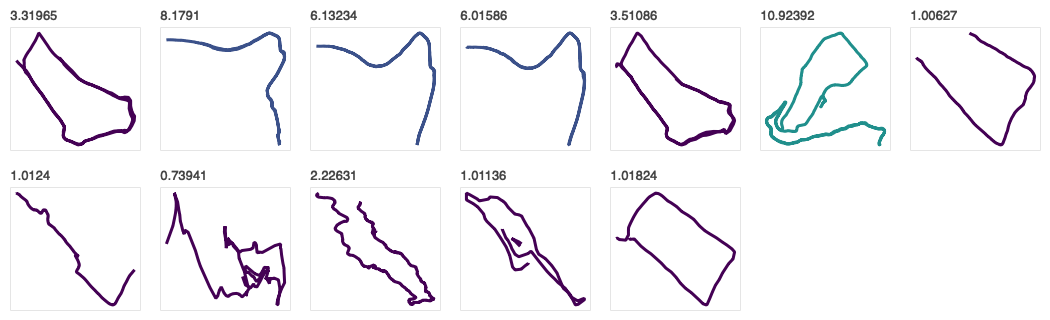
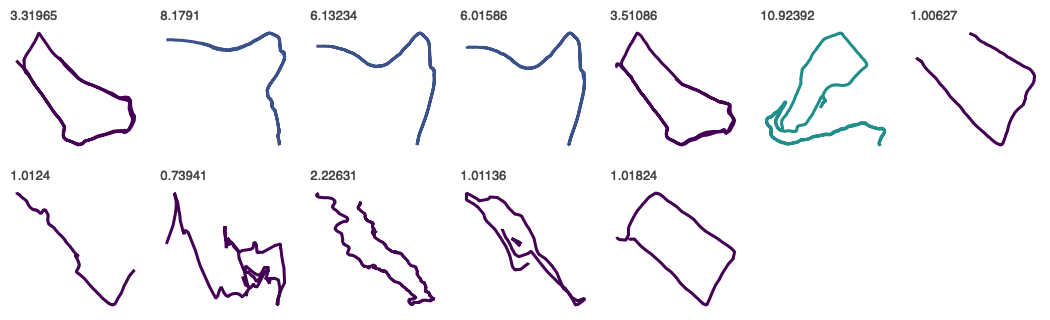
add single track

Changed region(s): [[0.1524, 0.5625, 0.1829, 0.5938], [0.1524, 0.0625, 0.1829, 0.0938]]

diff --git a/main.py b/main.py
@@ -8,14 +8,14 @@ import matplotlib.pyplot as plt
 import pandas as pd
 from bokeh.embed import components
 from bokeh.io import export_png, export_svgs
-from bokeh.layouts import gridplot
+from bokeh.layouts import gridplot, column
 from bokeh.models import ColumnDataSource
 from bokeh.palettes import all_palettes
-from bokeh.plotting import figure, output_file, show
+from bokeh.plotting import figure, output_file, show, save
 from fitparse import FitFile
 
 palettes = all_palettes['Viridis'][5]
-COLORS = {'text': '#222222', 'bg': '#FFFFFF', 'special': '#FFFF00',
+COLORS = {'text': '#222222', 'bg': '#FFFFFF', 'special': '#FFD700',
           '42k': palettes[4], '21k': palettes[3], '10k': palettes[2], '4k': palettes[1], '1k': palettes[0]}
 NCOLS = 7
 SIZE = 150
@@ -37,12 +37,12 @@ def get_color(distance):
 
 def fig(fn):
     fitfile = FitFile(fn)
-    total = []
+    table = []
     for record in fitfile.get_messages('record'):
         values = record.get_values()
-        total.append(values)
+        table.append(values)
 
-    df = pd.DataFrame(total)
+    df = pd.DataFrame(table)
 
     try:
         df['lat'] = df.position_lat.map(lambda x: x * 180 / (2 << 30))
@@ -56,33 +56,41 @@ def fig(fn):
     # msg = f"{df.iloc[-1]['timestamp']}  {df.iloc[-1]['distance']}"
     distance = df.iloc[-1]['distance'] / 1000
     color = get_color(distance)
-
-    # print(df.long)
-    # df.plot(kind='line', x='long', y='lat', c='distance', colormap='viridis')
-    # plt.scatter(df['long'], df['lat'], c=df['distance'], s=1)
-    # plt.plot(df['long'], df['lat'], c='c')
-    # plt.show()
-
+    timestamp = df.iloc[-1]['timestamp']
     source = ColumnDataSource(df)
-    p = figure(plot_width=SIZE, plot_height=SIZE+10,
-               toolbar_location=None, tools="", title=str(distance))
-    # p.circle(df['long'], df['lat'], size=1)
-    # p.circle("long", "lat", size=5, source=source)
-    p.line('long', 'lat', color=color, line_width=3, source=source)
 
-    # p.background_fill_color = COLORS['bg']
-    p.outline_line_color = COLORS['bg']
-    p.min_border_left = BORDER
-    p.min_border_right = BORDER
-    p.min_border_top = BORDER
-    p.min_border_bottom = BORDER
-    p.grid.grid_line_color = None
-    p.axis.visible = False
-
-    export_png(p, filename=f'dup/img/{fn[4:-4]}.png')
+    track = figure(plot_width=SIZE, plot_height=SIZE+10,
+                   toolbar_location=None, tools="", title=str(distance))
+    track.line('long', 'lat', color=color, line_width=3, source=source)
+    track.outline_line_color = COLORS['bg']
+    track.min_border_left = BORDER
+    track.min_border_right = BORDER
+    track.min_border_top = BORDER
+    track.min_border_bottom = BORDER
+    track.grid.grid_line_color = None
+    track.axis.visible = False
+    export_png(track, filename=f'dup/img/{fn[4:-4]}.png')
     # p.output_backend = "svg"
     # export_svgs(p, filename=f'dup/img/{fn[4:-4]}.svg')
-    return p, distance
+
+    single = figure(plot_width=SIZE*4, plot_height=SIZE*4+10, title=str(distance),
+                    toolbar_location=None, tools="")
+    single.line('long', 'lat', color=color, line_width=3, source=source)
+    hr = figure(plot_width=SIZE*4, plot_height=int(SIZE*1.3), title='HEART_RATE',
+                toolbar_location=None, tools="")
+    hr.line('distance', 'heart_rate', line_width=3, source=source)
+    speed = figure(plot_width=SIZE*4, plot_height=int(SIZE*1.3), title='SPEED',
+                   toolbar_location=None, tools="")
+    speed.line('distance', 'cadence', line_width=3, source=source)
+    cadence = figure(plot_width=SIZE*4, plot_height=int(SIZE*1.3), title='CADENCE',
+                     toolbar_location=None, tools="", )
+    cadence.line('distance', 'cadence', line_width=3, source=source)
+    plot = column([single, hr, speed, cadence])
+    # export_png(plot, filename=f'dup/track/{fn[4:-4]}.png')
+    save(plot, f'dup/track/{fn[4:-4]}.html',
+         title=timestamp.strftime('%Y/%m/%d'))
+
+    return track, distance
 
 
 def main():
@@ -99,18 +107,16 @@ def main():
             p, distance = fig(path)
             figs.append(p)
             total += distance
-            # img_html += f'<div style="width:10%;height:10%;"><div class="single-gallery-image" style="background:url(img/{img_name}.svg);"></div></div>\n'
             img_html += f"<p><img src='img/{img_name}.png' width='100%'/></p>\n"
         except TypeError:
             pass
 
-    print(img_html)
     plot = gridplot(figs, ncols=NCOLS, toolbar_location=None)
-    # export_png(plot, filename=f'oneKrun.png')
+    export_png(plot, filename=f'oneKrun.png')
     # output_file('run.html')
     # show(p)
-
     # script, div = components(plot)
+
     script = img_html
     div = ''
 
